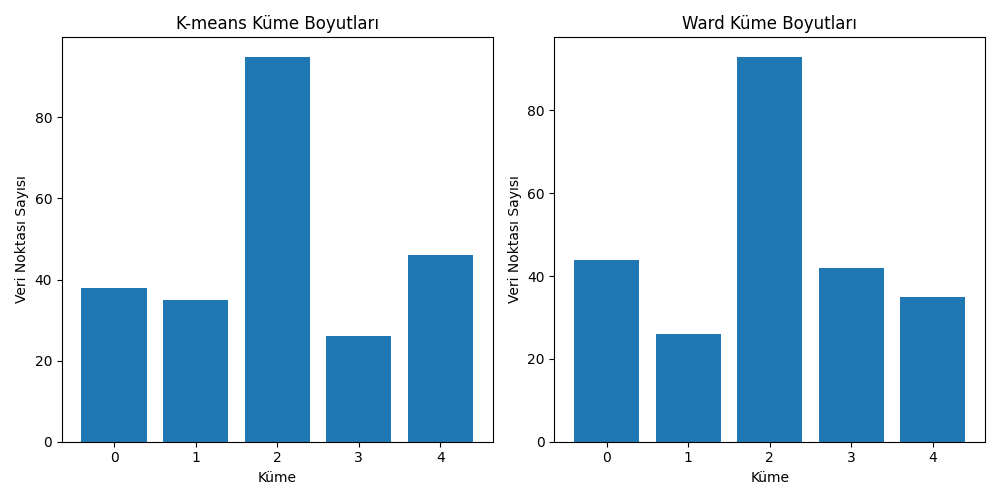
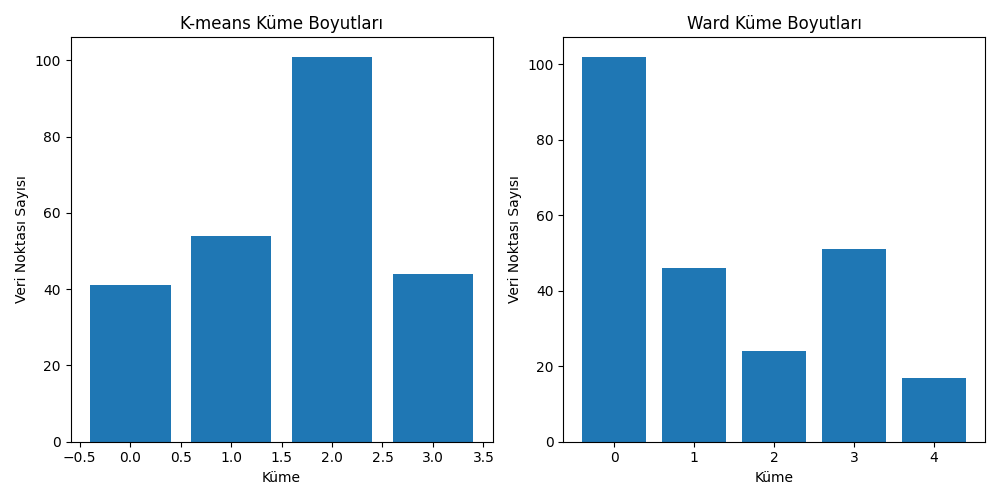
Yeni parametreler ile metrik güncellemeleri.

diff --git a/clustering_analysis.py b/clustering_analysis.py
@@ -4,6 +4,7 @@ from sklearn.preprocessing import StandardScaler, RobustScaler, OneHotEncoder, M
 from sklearn.cluster import KMeans, AgglomerativeClustering
 from sklearn.metrics import silhouette_score, calinski_harabasz_score, davies_bouldin_score
 from sklearn.metrics import adjusted_rand_score, adjusted_mutual_info_score, homogeneity_score, completeness_score, v_measure_score
+from sklearn.metrics import normalized_mutual_info_score, fowlkes_mallows_score
 import matplotlib.pyplot as plt
 import seaborn as sns
 from sklearn.decomposition import PCA
@@ -350,51 +351,189 @@ def visualize_results(X, kmeans_labels, ward_labels, optimal_k):
     plt.savefig('kume_boyutlari.png')
     plt.close()
 
-def main():
+def calculate_sse(X, labels):
     """
-    Ana fonksiyon
+    Sum of Squared Errors (SSE) hesaplar
     """
-    print("Kümeleme analizi başlatılıyor...")
+    sse = 0
+    for i in range(len(np.unique(labels))):
+        cluster_points = X[labels == i]
+        if len(cluster_points) > 0:
+            centroid = np.mean(cluster_points, axis=0)
+            sse += np.sum((cluster_points - centroid) ** 2)
+    return sse
+
+def gelismis_metrik_analizi(X, labels, true_labels=None):
+    """
+    Gelişmiş metrik analizi yapar
+    """
+    print("\n=== GELİŞMİŞ METRİK ANALİZİ ===")
     
+    metrics = {}
+    
+    # 1. SSE/WCSS Hesaplama
+    metrics['SSE'] = {
+        'kmeans': calculate_sse(X, labels['kmeans']),
+        'ward': calculate_sse(X, labels['ward'])
+    }
+    
+    # 2. Davies-Bouldin İndeksi
+    metrics['Davies_Bouldin'] = {
+        'kmeans': davies_bouldin_score(X, labels['kmeans']),
+        'ward': davies_bouldin_score(X, labels['ward'])
+    }
+    
+    # 3. Etiketli Veri Metrikleri (eğer true_labels varsa)
+    if true_labels is not None:
+        metrics['ARI'] = {
+            'kmeans': adjusted_rand_score(true_labels, labels['kmeans']),
+            'ward': adjusted_rand_score(true_labels, labels['ward'])
+        }
+        
+        metrics['NMI'] = {
+            'kmeans': normalized_mutual_info_score(true_labels, labels['kmeans']),
+            'ward': normalized_mutual_info_score(true_labels, labels['ward'])
+        }
+        
+        metrics['FMI'] = {
+            'kmeans': fowlkes_mallows_score(true_labels, labels['kmeans']),
+            'ward': fowlkes_mallows_score(true_labels, labels['ward'])
+        }
+    
+    # Metrikleri görselleştir
+    plt.figure(figsize=(15, 10))
+    
+    # SSE karşılaştırması
+    plt.subplot(2, 2, 1)
+    plt.bar(['K-means', 'Ward'], [metrics['SSE']['kmeans'], metrics['SSE']['ward']])
+    plt.title('SSE Karşılaştırması')
+    plt.ylabel('SSE Değeri')
+    
+    # Davies-Bouldin karşılaştırması
+    plt.subplot(2, 2, 2)
+    plt.bar(['K-means', 'Ward'], [metrics['Davies_Bouldin']['kmeans'], metrics['Davies_Bouldin']['ward']])
+    plt.title('Davies-Bouldin İndeksi Karşılaştırması')
+    plt.ylabel('Davies-Bouldin Değeri')
+    
+    if true_labels is not None:
+        # ARI karşılaştırması
+        plt.subplot(2, 2, 3)
+        plt.bar(['K-means', 'Ward'], [metrics['ARI']['kmeans'], metrics['ARI']['ward']])
+        plt.title('ARI Karşılaştırması')
+        plt.ylabel('ARI Değeri')
+        
+        # NMI ve FMI karşılaştırması
+        plt.subplot(2, 2, 4)
+        x = np.arange(2)
+        width = 0.35
+        plt.bar(x - width/2, [metrics['NMI']['kmeans'], metrics['NMI']['ward']], width, label='NMI')
+        plt.bar(x + width/2, [metrics['FMI']['kmeans'], metrics['FMI']['ward']], width, label='FMI')
+        plt.title('NMI ve FMI Karşılaştırması')
+        plt.xticks(x, ['K-means', 'Ward'])
+        plt.legend()
+    
+    plt.tight_layout()
+    plt.savefig('gelismis_metrik_analizi.png')
+    plt.close()
+    
+    # Metrikleri raporla
+    print("\nMetrik Sonuçları:")
+    for metric_name, values in metrics.items():
+        print(f"\n{metric_name}:")
+        print(f"K-means: {values['kmeans']:.4f}")
+        print(f"Ward: {values['ward']:.4f}")
+    
+    return metrics
+
+def performans_raporu_olustur(X, labels, kmeans_model, ward_model, true_labels=None):
+    """
+    Kapsamlı performans raporu oluşturur
+    """
+    # 1. Temel metrikler
+    basic_metrics = evaluate_and_report_metrics(X, labels['kmeans'], 'K-means')
+    ward_metrics = evaluate_and_report_metrics(X, labels['ward'], 'Ward')
+    
+    # 2. Gelişmiş metrikler
+    advanced_metrics = gelismis_metrik_analizi(X, labels, true_labels)
+    
+    # 3. Küme boyutları analizi
+    kmeans_sizes = np.bincount(labels['kmeans'])
+    ward_sizes = np.bincount(labels['ward'])
+    
+    # 4. Rapor oluşturma
+    rapor = {
+        'temel_metrikler': {
+            'kmeans': {
+                'metrics': {k: float(v) for k, v in basic_metrics['metrics'].items()},
+                'interpretations': basic_metrics['interpretations'],
+                'recommendations': basic_metrics['recommendations']
+            },
+            'ward': {
+                'metrics': {k: float(v) for k, v in ward_metrics['metrics'].items()},
+                'interpretations': ward_metrics['interpretations'],
+                'recommendations': ward_metrics['recommendations']
+            }
+        },
+        'gelismis_metrikler': {
+            k: {sk: float(sv) for sk, sv in v.items()} 
+            for k, v in advanced_metrics.items()
+        },
+        'kume_boyutlari': {
+            'kmeans': kmeans_sizes.tolist(),
+            'ward': ward_sizes.tolist()
+        },
+        'sonuc': {
+            'kmeans_basari': bool(basic_metrics['metrics']['silhouette'] > 0.3),
+            'ward_basari': bool(ward_metrics['metrics']['silhouette'] > 0.3),
+            'oneri_edilen_model': 'Ward' if ward_metrics['metrics']['silhouette'] > basic_metrics['metrics']['silhouette'] else 'K-means'
+        }
+    }
+    
+    # Raporu JSON dosyasına kaydet
+    with open('performans_raporu.json', 'w', encoding='utf-8') as f:
+        json.dump(rapor, f, ensure_ascii=False, indent=4)
+    
+    return rapor
+
+def main():
     # Veri setini oku
+    print("Veri seti okunuyor...")
     df = pd.read_csv('Veri_seti.csv')
     
     # Veri ön işleme
     X = preprocess_data(df)
     
+    # Veriyi ölçeklendir
+    scaler = StandardScaler()
+    X_scaled = scaler.fit_transform(X)
+    
     # Optimal küme sayısını bul
-    optimal_k, metrics_history = find_optimal_clusters(X)
+    optimal_k, metrics_history = find_optimal_clusters(X_scaled)
     
     # Algoritma parametrelerini optimize et
-    kmeans_params = optimize_algorithm_parameters(X, 'kmeans')
-    ward_params = optimize_algorithm_parameters(X, 'ward')
+    kmeans_params = optimize_algorithm_parameters(X_scaled, 'kmeans')
+    ward_params = optimize_algorithm_parameters(X_scaled, 'ward')
     
-    # K-means kümeleme
+    # Modelleri eğit
     kmeans = KMeans(**kmeans_params, random_state=42)
-    kmeans_labels = kmeans.fit_predict(X)
-    
-    # Ward kümeleme
     ward = AgglomerativeClustering(**ward_params)
-    ward_labels = ward.fit_predict(X)
     
-    # Sonuçları değerlendir
-    kmeans_report = evaluate_and_report_metrics(X, kmeans_labels, 'K-means')
-    ward_report = evaluate_and_report_metrics(X, ward_labels, 'Ward')
+    kmeans_labels = kmeans.fit_predict(X_scaled)
+    ward_labels = ward.fit_predict(X_scaled)
     
-    # Sonuçları görselleştir
-    visualize_results(X, kmeans_labels, ward_labels, optimal_k)
-    
-    # Sonuçları kaydet
-    results = {
-        'kmeans': kmeans_report,
-        'ward': ward_report,
-        'optimal_k': optimal_k
+    labels = {
+        'kmeans': kmeans_labels,
+        'ward': ward_labels
     }
     
-    with open('kumeleme_sonuclari.json', 'w', encoding='utf-8') as f:
-        json.dump(results, f, ensure_ascii=False, indent=4)
+    # Performans raporu oluştur
+    true_labels = None  # Eğer gerçek etiketler varsa buraya ekleyin
+    performans_raporu = performans_raporu_olustur(X_scaled, labels, kmeans, ward, true_labels)
     
-    print("\nKümeleme analizi tamamlandı!")
+    # Sonuçları görselleştir
+    visualize_results(X_scaled, kmeans_labels, ward_labels, optimal_k)
+    
+    print("\nAnaliz tamamlandı! Sonuçlar kaydedildi.")
 
 if __name__ == "__main__":
     main() 
